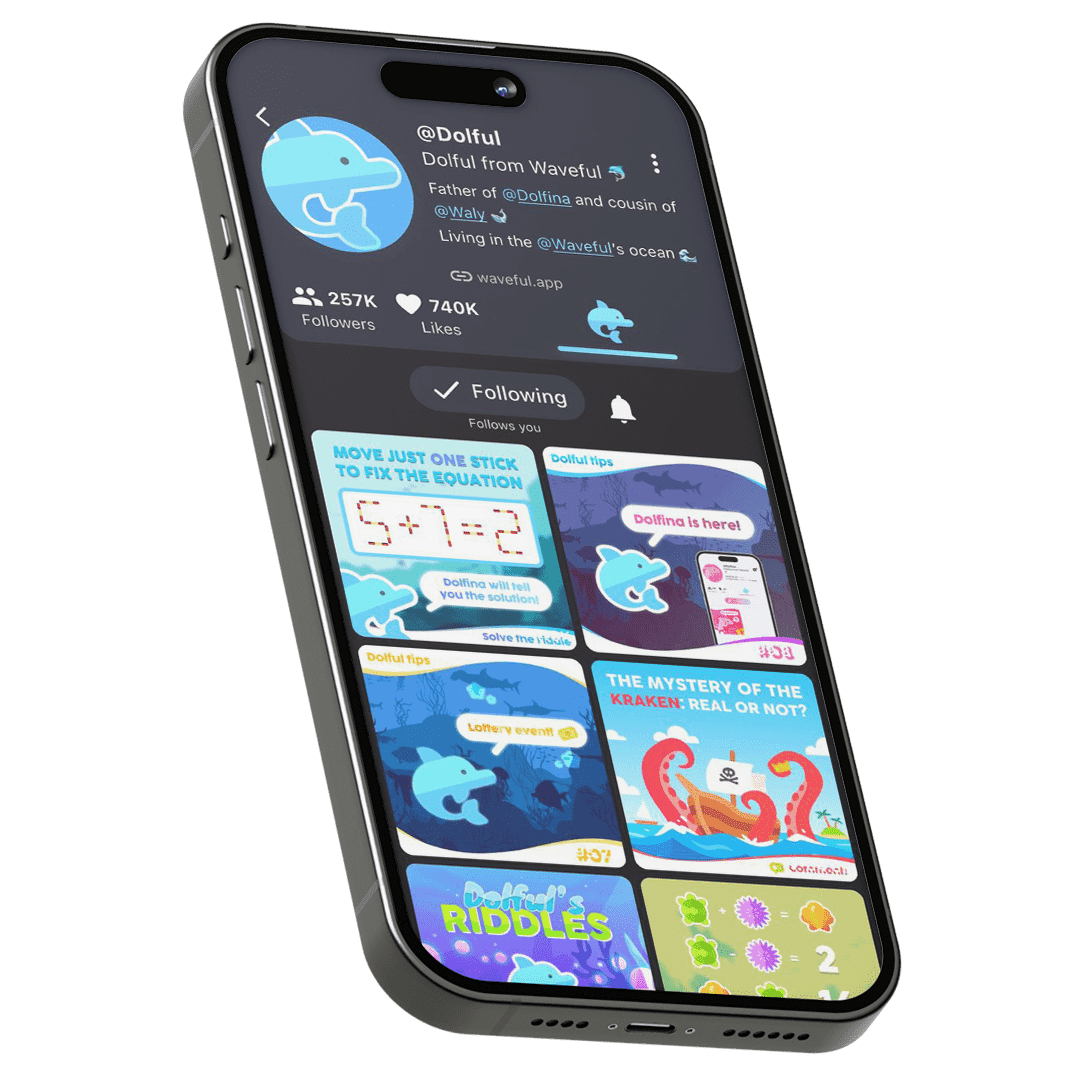
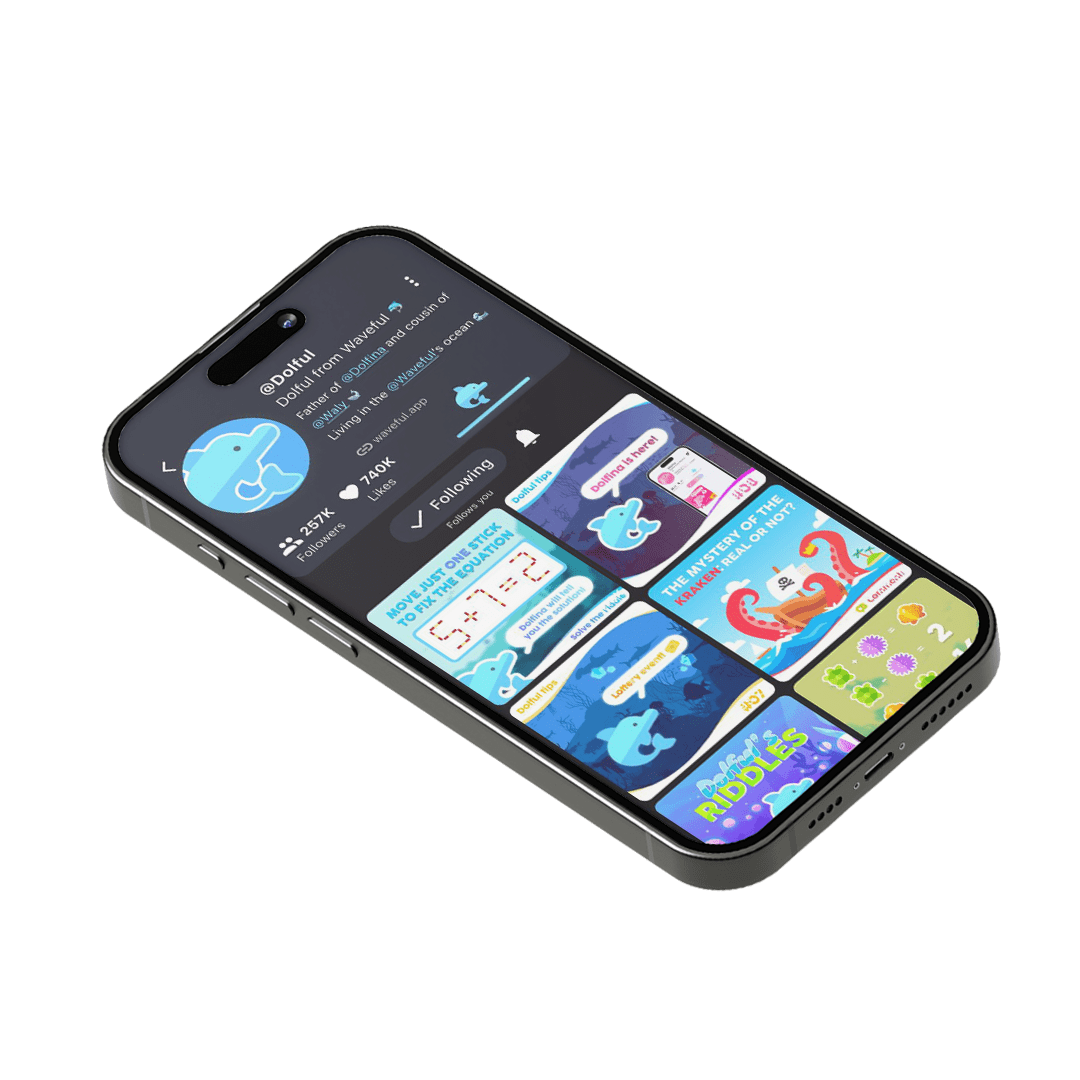
Update website

diff --git a/flutter_service_worker.js b/flutter_service_worker.js
@@ -21,8 +21,8 @@ const RESOURCES = {"assets/AssetManifest.bin": "d2c46dc779fadc422c0f98ad40781e87
 "assets/assets/badges/google/badge_google_it.png": "c701b48ca94ef5c3bbdb11c272c27afc",
 "assets/assets/fonts/CustomIcons.ttf": "eb9246d7026e14bb9c85b4fefe8d239f",
 "assets/assets/fonts/coolvetica.ttf": "5d474fd2ebc6ef77c9bf3219391bed9c",
-"assets/assets/mockups/phone_dark.png": "74aa440fd4df60ba0470cd79ad366330",
-"assets/assets/mockups/phone_light.png": "102555c73b57819dd57a21470a5e0ff8",
+"assets/assets/mockups/phone_dark.png": "b61a6232bb97ff1134394b9f94b6547b",
+"assets/assets/mockups/phone_light.png": "9c7f1dc45dd29111c8a592b72f4c24e6",
 "assets/assets/logo.png": "3b3bec64190c53ce8232bd94b4380a2b",
 "assets/shaders/ink_sparkle.frag": "ecc85a2e95f5e9f53123dcaf8cb9b6ce",
 "assets/FontManifest.json": "98339ff99f762c4af2db65e0421c6baa",
@@ -36,7 +36,7 @@ const RESOURCES = {"assets/AssetManifest.bin": "d2c46dc779fadc422c0f98ad40781e87
 ".well-known/security.txt": "5620532c3c448f3b9bca92602ab2446c",
 "manifest.json": "e2f2cd7bda2daaff91b5eb2c0e93b2ef",
 "CNAME": "124e4042fbf152059b5805ece63fc59c",
-"flutter_bootstrap.js": "be6e66a9261e7f53c5a9e0a88381baec",
+"flutter_bootstrap.js": "f67841ee5abb6ae7671a17bb89406e63",
 "canvaskit/skwasm.wasm": "39dd80367a4e71582d234948adc521c0",
 "canvaskit/canvaskit.wasm": "7a3f4ae7d65fc1de6a6e7ddd3224bc93",
 "canvaskit/skwasm.js.symbols": "e72c79950c8a8483d826a7f0560573a1",
@@ -47,8 +47,8 @@ const RESOURCES = {"assets/AssetManifest.bin": "d2c46dc779fadc422c0f98ad40781e87
 "canvaskit/canvaskit.js": "728b2d477d9b8c14593d4f9b82b484f3",
 "canvaskit/canvaskit.js.symbols": "bdcd3835edf8586b6d6edfce8749fb77",
 "404.html": "7e6a662bfe13c8d8a66d84c2905e81ea",
-"index.html": "d15d0a32f3101bdcb5409fdacd35ffeb",
-"/": "d15d0a32f3101bdcb5409fdacd35ffeb",
+"index.html": "f5abe1d4f09d86d63abc3767d1e588f7",
+"/": "f5abe1d4f09d86d63abc3767d1e588f7",
 "favicon.ico": "ca3f0adf2bf95dd32dabb861f42099af",
 "flutter.js": "83d881c1dbb6d6bcd6b42e274605b69c",
 "app-ads.txt": "4071b9b5911c98d5b084c01a8864ab9b",

diff --git a/404.html b/404.html
@@ -157,7 +157,7 @@ _flutter.buildConfig = {"engineRevision":"72f2b18bb094f92f62a3113a8075240ebb59af
     window.addEventListener('load', function () {
       const loading = document.querySelector('#loading');
       _flutter.loader.load({
-        config: { serviceWorker: { serviceWorkerVersion: "3227006765" } },
+        config: { serviceWorker: { serviceWorkerVersion: "793225678" } },
         onEntrypointLoaded: engineInitializer => {
           loading.classList.add('main_done');
           engineInitializer.initializeEngine().then(runner => {

diff --git a/index.html b/index.html
@@ -157,7 +157,7 @@ _flutter.buildConfig = {"engineRevision":"72f2b18bb094f92f62a3113a8075240ebb59af
     window.addEventListener('load', function () {
       const loading = document.querySelector('#loading');
       _flutter.loader.load({
-        config: { serviceWorker: { serviceWorkerVersion: "3227006765" } },
+        config: { serviceWorker: { serviceWorkerVersion: "793225678" } },
         onEntrypointLoaded: engineInitializer => {
           loading.classList.add('main_done');
           engineInitializer.initializeEngine().then(runner => {

diff --git a/flutter_bootstrap.js b/flutter_bootstrap.js
@@ -39,6 +39,6 @@ _flutter.buildConfig = {"engineRevision":"72f2b18bb094f92f62a3113a8075240ebb59af
 
 _flutter.loader.load({
   serviceWorkerSettings: {
-    serviceWorkerVersion: "3227006765"
+    serviceWorkerVersion: "793225678"
   }
 });
